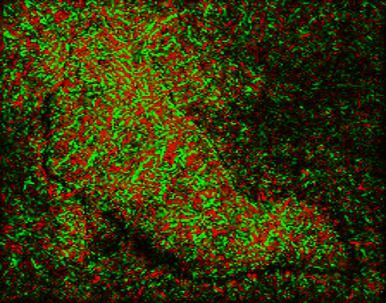
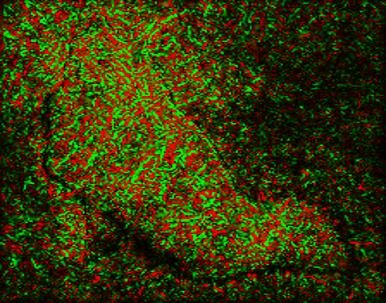
add natural gradient

diff --git a/runner.py b/runner.py
@@ -9,6 +9,7 @@ import PIL.Image
 
 IMAGE_OUTPUT_PATH = "outputs/images/"
 
+torch.cuda.is_available = lambda: False;
 
 def evaluate_pixel_based_methods(explanation, input_image, image, image_name, model, categories, threshold=0.1):
     explanation = (explanation - torch.mean(explanation)) / torch.std(explanation, unbiased=False)
@@ -81,38 +82,38 @@ if __name__ == '__main__':
     print("Original prediction")
     prettyprint_tuple(topk_pred_orig)
 
-    # integrated gradient
-    step = 50
+    # # integrated gradient
+    # step = 50
     zero_out_threshold = 0.1
-    explanation_ig = get_explanation_ig(MODEL, input_batch, CATEGORIES, label_name)
-    topk_pred_ig = evaluate_pixel_based_methods(explanation=explanation_ig, input_image=input_image, image=image,
-                                                image_name=image_name + "_ig", model=MODEL, categories=CATEGORIES,
-                                                threshold=zero_out_threshold)
-    print("\nIntegrated Gradient prediction")
-    prettyprint_tuple(topk_pred_ig)
+    # explanation_ig = get_explanation_ig(MODEL, input_batch, CATEGORIES, label_name)
+    # topk_pred_ig = evaluate_pixel_based_methods(explanation=explanation_ig, input_image=input_image, image=image,
+    #                                             image_name=image_name + "_ig", model=MODEL, categories=CATEGORIES,
+    #                                             threshold=zero_out_threshold)
+    # print("\nIntegrated Gradient prediction")
+    # prettyprint_tuple(topk_pred_ig)
 
     # local data matrix
-    explanation_ldm = get_explanation_ldm(MODEL, input_batch)
+    explanation_ldm = get_explanation_ldm(MODEL, input_batch, CATEGORIES, label_name)
     topk_pred_ldm = evaluate_pixel_based_methods(explanation=explanation_ldm, input_image=input_image, image=image,
                                                  image_name=image_name + "_ldm", model=MODEL, categories=CATEGORIES,
                                                  threshold=zero_out_threshold)
     print("\nLocal Data Matrix prediction")
     prettyprint_tuple(topk_pred_ldm)
 
-    # lime
-    features_to_plot = (10, 30, 80)
-    lime_explanation = get_lime_explainer(image, top_label=0, num_features=5)
-    topk_pred_lime = evaluate_lime(lime_explanation, input_image=input_image,
-                                   image_name=image_name + "_lime_5", model=MODEL, categories=CATEGORIES,
-                                   num_features_tuple_plot=features_to_plot)
-    print("\nLIME prediction 5 features")
-    prettyprint_tuple(topk_pred_lime)
+    # # lime
+    # features_to_plot = (10, 30, 80)
+    # lime_explanation = get_lime_explainer(image, top_label=0, num_features=5)
+    # topk_pred_lime = evaluate_lime(lime_explanation, input_image=input_image,
+    #                                image_name=image_name + "_lime_5", model=MODEL, categories=CATEGORIES,
+    #                                num_features_tuple_plot=features_to_plot)
+    # print("\nLIME prediction 5 features")
+    # prettyprint_tuple(topk_pred_lime)
 
-    lime_explanation = get_lime_explainer(image, top_label=0, num_features=20)
-    topk_pred_lime = evaluate_lime(lime_explanation, input_image=input_image,
-                                   image_name=image_name + "_lime_20", model=MODEL, categories=CATEGORIES,
-                                   num_features_tuple_plot=features_to_plot)
-    print("\nLIME prediction 20 features")
-    prettyprint_tuple(topk_pred_lime)
+    # lime_explanation = get_lime_explainer(image, top_label=0, num_features=20)
+    # topk_pred_lime = evaluate_lime(lime_explanation, input_image=input_image,
+    #                                image_name=image_name + "_lime_20", model=MODEL, categories=CATEGORIES,
+    #                                num_features_tuple_plot=features_to_plot)
+    # print("\nLIME prediction 20 features")
+    # prettyprint_tuple(topk_pred_lime)
 
     sys.stdout = sys.__stdout__

diff --git a/src/local_data_matrix.py b/src/local_data_matrix.py
@@ -2,7 +2,7 @@ from functools import reduce
 import torch
 
 
-def get_eigenvectors_ldm(model, input_batch):
+def get_eigenvectors_ldm(model, input_batch, categories, label_name):
     input_batch.requires_grad = True
     output = model(input_batch)
     prob = output.softmax(-1)
@@ -18,10 +18,33 @@ def get_eigenvectors_ldm(model, input_batch):
         log_prob.backward(index, retain_graph=True)
         grad_vecs[i] += input_batch.grad.view(-1) * prob[..., i].sqrt()
 
+    # Get rank-1 approximation 
     u, s, v = torch.svd_lowrank(grad_vecs.T, q=100, niter=5)  # u is the eigenvalue of the grad_vecs
-    return u  # explanation is u[:, 0].detach().view(3, 224, 224)
+    vp = u[:, 0].reshape(-1, 1)
+
+    # Get gradient
+    label = torch.LongTensor([categories.index(label_name)])
+
+    # move the input and model to GPU for speed if available
+    if torch.cuda.is_available():
+        input_batch = input_batch.to('cuda')
+        label = label.to('cuda')
+        model.to('cuda')
+
+    # inference
+    input_batch.requires_grad = True
+    output = model(input_batch)
+
+    # get gradient for input
+    criterion = torch.nn.CrossEntropyLoss()
+    criterion(output, label).backward()
+    grads = input_batch.grad.reshape(-1, 1)
+
+    # get natural gradient
+    natural_gradient = vp * (vp.T @ grads)
+    return natural_gradient  # explanation is u[:, 0].detach().view(3, 224, 224)
 
 
-def get_explanation_ldm(model, input_batch):
-    u = get_eigenvectors_ldm(model, input_batch)
-    return u[:, 0].detach().view(3, 224, 224)
+def get_explanation_ldm(model, input_batch, categories, label_name):
+    natural_gradient = get_eigenvectors_ldm(model, input_batch, categories, label_name)
+    return natural_gradient.detach().view(3, 224, 224)
